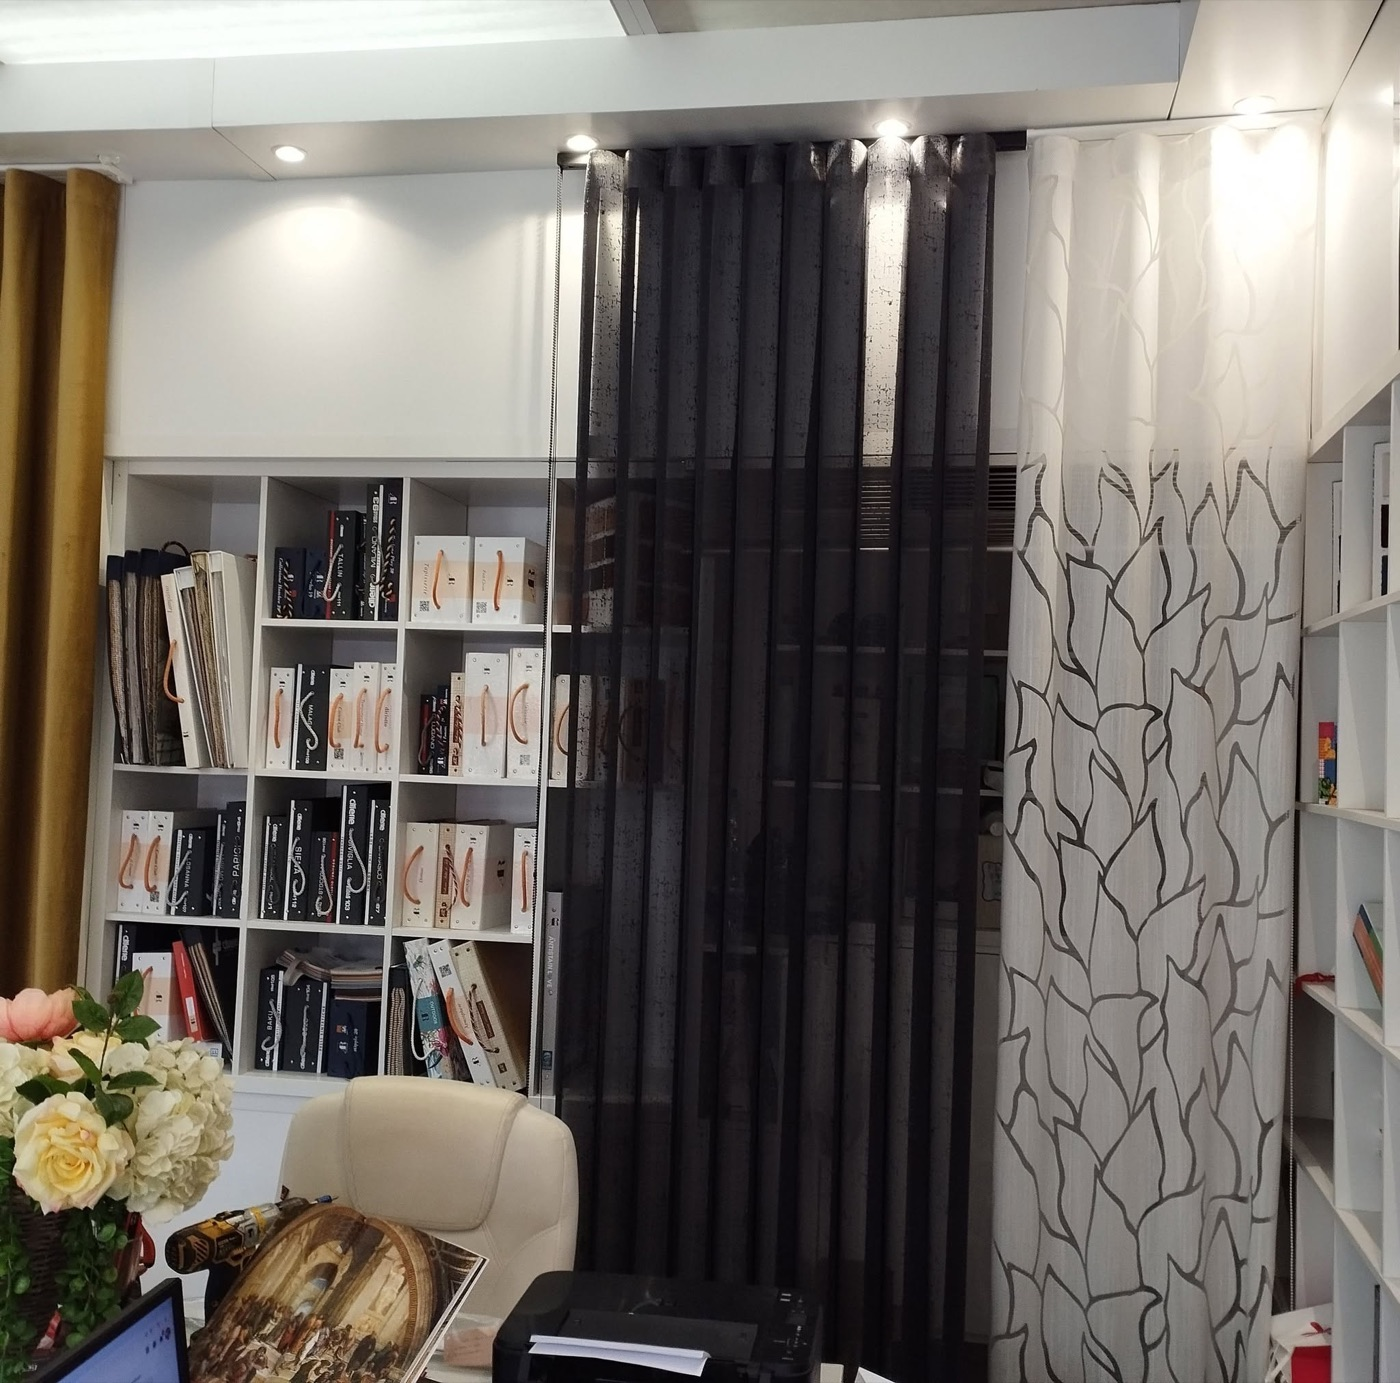
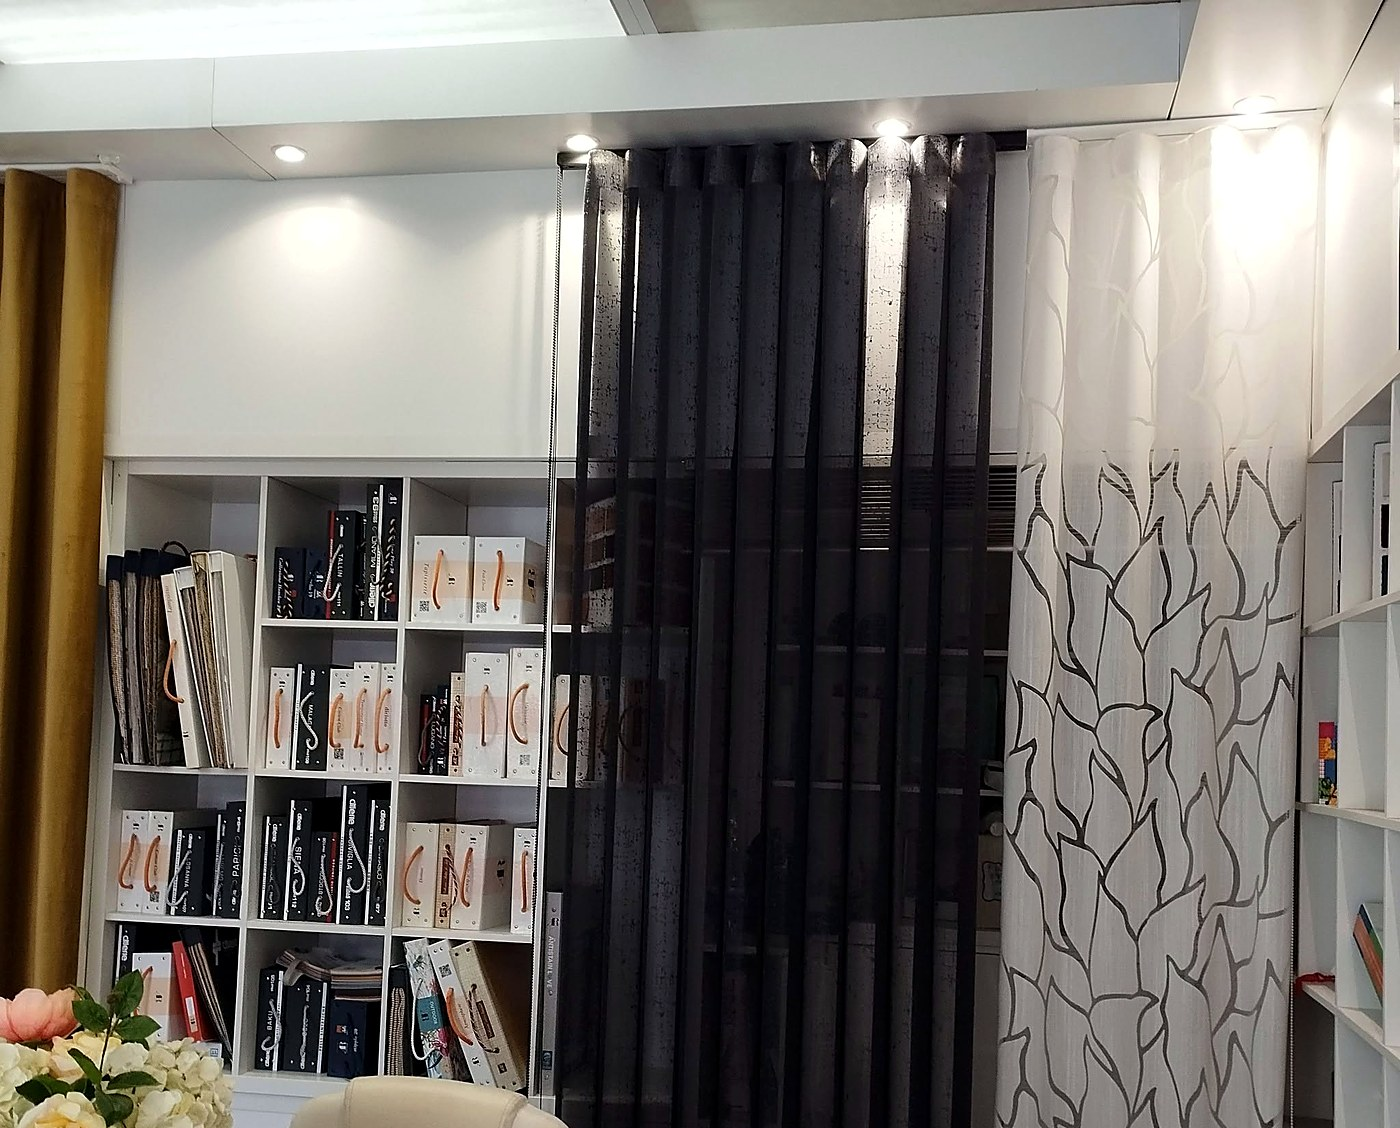
Foto aggiornate: tenda nera ritagliata, dettaglio tessuto

diff --git a/index.html b/index.html
@@ -163,7 +163,7 @@
     </div>
     <div class="hero-foto">
       <img src="img/tende-chiare.jpg" alt="Tende in velluto avorio montate in un soggiorno con travi a vista" width="1054" height="1400">
-      <img src="img/tenda-soggiorno.jpg" alt="Tende su misura nere e bianche in un soggiorno con libreria" width="1400" height="1383">
+      <img src="img/tenda-soggiorno.jpg" alt="Tende su misura nere e bianche nello showroom con libreria" width="1400" height="1128">
       <div class="badge"><b>60+</b>anni di esperienza<br>di famiglia</div>
     </div>
   </div>
@@ -193,7 +193,7 @@
       <figure><img src="img/tende-1.jpg" alt="Tende in tessuto ricamato chiaro montate davanti alla finestra" loading="lazy" width="678" height="1400"><figcaption><b>Tendaggio Reevèr</b>Tessuto ricamato, luce morbida</figcaption></figure>
       <figure><img src="img/tende-2.jpg" alt="Tende ricamate montate su bastone davanti a una porta finestra" loading="lazy" width="652" height="1316"><figcaption><b>Porta finestra</b>Montaggio su bastone</figcaption></figure>
       <figure><img src="img/tende-chiare.jpg" alt="Tende con code in velluto avorio" loading="lazy" width="1054" height="1400"><figcaption><b>Velluto avorio</b>Tende con code</figcaption></figure>
-      <figure><img src="img/tenda-soggiorno.jpg" alt="Tende nere e bianche in un soggiorno" loading="lazy" width="1400" height="1383"><figcaption><b>Soggiorno</b>Contrasto bianco e nero</figcaption></figure>
+      <figure><img src="img/tessuto-jacquard.jpg" alt="Dettaglio del tessuto bianco con disegno a foglie" loading="lazy" width="900" height="1409"><figcaption><b>Tessuto jacquard</b>Bianco con disegno a foglie</figcaption></figure>
     </div>
   </div>
 </section>
